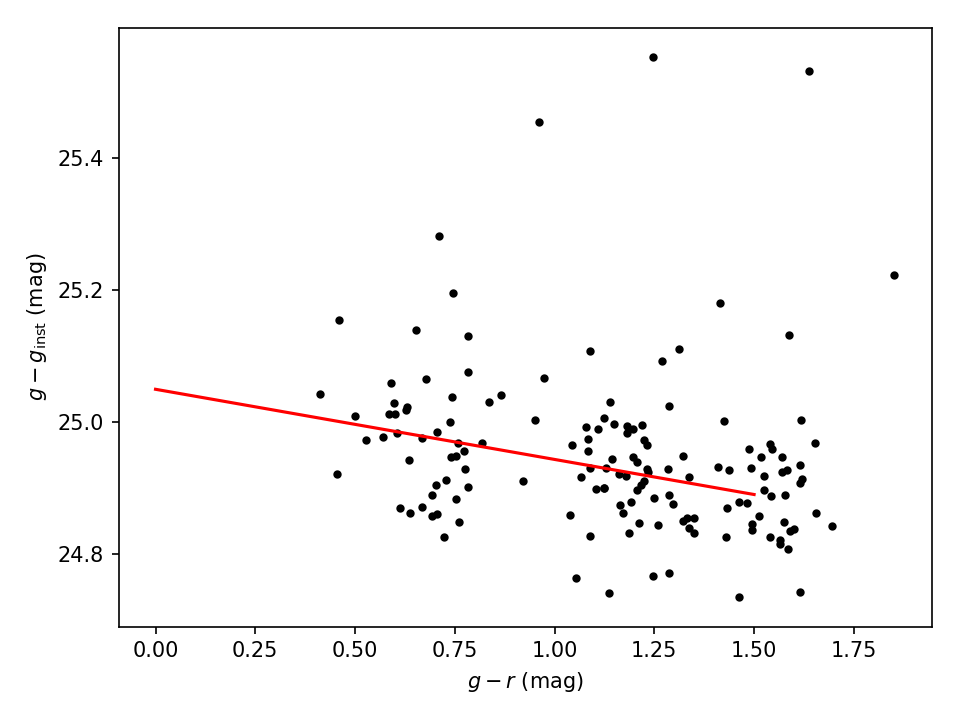
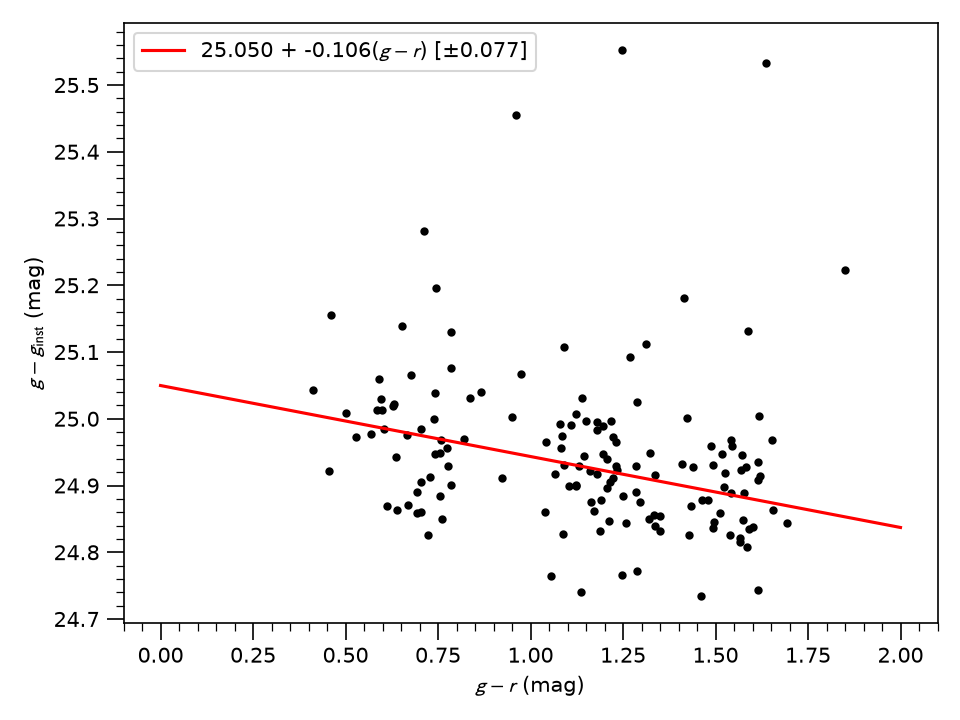
Update plots and show best fit numbers

diff --git a/examples/lco-skymapper-constant.py b/examples/lco-skymapper-constant.py
@@ -11,12 +11,12 @@ from astropy.table import Table
 
 import calviacat as cvc
 
-if os.path.exists("lco.fits"):
-    hdu = fits.open("lco.fits")
+if os.path.exists("lco-6913550.fits"):
+    hdu = fits.open("lco-6913550.fits")
 else:
     r = requests.get("https://archive-api.lco.global/frames/6913550/").json()
     hdu = fits.open(r["url"])
-    hdu.writeto("lco.fits")
+    hdu.writeto("lco-6913550.fits")
 
 im = hdu["sci"].data
 h = hdu["sci"].header
@@ -52,12 +52,12 @@ g_err = phot["FLUXERR"] / phot["FLUX"] * 1.0857
 zp_mean, zp_median, unc, g, gmi = skym.cal_constant(objids, g_inst, "g", gmi_lim=None)
 
 # plot results
-fig = plt.figure(1)
-fig.clear()
-ax = fig.gca()
+fig, ax = plt.subplots(num=1, clear=True)
 ax.scatter(g, g - g_inst, marker=".", color="k")
-ax.axhline(zp_mean)
-ax.axhline(zp_median)
-plt.setp(ax, xlabel="$g$ (mag)", ylabel=r"$g - g_{\rm inst}$ (mag)")
+ax.axhline(zp_mean, label=f"Mean: {zp_mean:.3f}")
+ax.axhline(zp_median, ls="--", label=f"Median: {zp_median:.3f}")
+ax.set(xlabel="$g$ (mag)", ylabel=r"$g - g_{\rm inst}$ (mag)")
+ax.minorticks_on()
+plt.legend()
 plt.tight_layout()
 plt.savefig("lco-skymapper-constant.png", dpi=150)

diff --git a/examples/lco-refcat2-color-corrected.py b/examples/lco-refcat2-color-corrected.py
@@ -11,12 +11,12 @@ from astropy.table import Table
 
 import calviacat as cvc
 
-if os.path.exists("lco.fits"):
-    hdu = fits.open("lco.fits")
+if os.path.exists("lco-6913550.fits"):
+    hdu = fits.open("lco-6913550.fits")
 else:
     r = requests.get("https://archive-api.lco.global/frames/6913550/").json()
     hdu = fits.open(r["url"])
-    hdu.writeto("lco.fits")
+    hdu.writeto("lco-6913550.fits")
 
 im = hdu["sci"].data
 h = hdu["sci"].header
@@ -50,12 +50,12 @@ g_err = phot["FLUXERR"] / phot["FLUX"] * 1.0857
 zp, C, unc, g, gmr, gmi = rc2.cal_color(objids, g_inst, "g", "g-r")
 
 # plot results
-fig = plt.figure(1)
-fig.clear()
-ax = fig.gca()
+fig, ax = plt.subplots(num=1, clear=True)
 ax.scatter(gmr, g - g_inst, marker=".", color="k")
-x = np.linspace(0, 1.5)
-ax.plot(x, C * x + zp, "r-")
-plt.setp(ax, xlabel="$g-r$ (mag)", ylabel=r"$g-g_{\rm inst}$ (mag)")
+x = np.linspace(0, 2)
+ax.plot(x, C * x + zp, "r-", label=f"{zp:.3f} + {C:.3f}($g-r$) [±{unc:.3f}]")
+ax.set(xlabel="$g-r$ (mag)", ylabel=r"$g-g_{\rm inst}$ (mag)")
+ax.legend()
+ax.minorticks_on()
 plt.tight_layout()
 plt.savefig("lco-refcat2-color-corrected.png", dpi=150)

diff --git a/examples/lco-ps1-color-corrected.py b/examples/lco-ps1-color-corrected.py
@@ -11,12 +11,12 @@ from astropy.table import Table
 
 import calviacat as cvc
 
-if os.path.exists("lco.fits"):
-    hdu = fits.open("lco.fits")
+if os.path.exists("lco-6143031.fits"):
+    hdu = fits.open("lco-6143031.fits")
 else:
     r = requests.get("https://archive-api.lco.global/frames/6143031/").json()
     hdu = fits.open(r["url"])
-    hdu.writeto("lco.fits")
+    hdu.writeto("lco-6143031.fits")
 
 im = hdu["sci"].data
 h = hdu["sci"].header
@@ -51,12 +51,12 @@ g_err = phot["FLUXERR"] / phot["FLUX"] * 1.0857
 zp, C, unc, g, gmr, gmi = ps1.cal_color(objids, g_inst, "g", "g-r")
 
 # plot results
-fig = plt.figure(1)
-fig.clear()
-ax = fig.gca()
+fig, ax = plt.subplots(num=1, clear=True)
 ax.scatter(gmr, g - g_inst, marker=".", color="k")
-x = np.linspace(0, 1.5)
-ax.plot(x, C * x + zp, "r-")
-plt.setp(ax, xlabel="$g-r$ (mag)", ylabel=r"$g-g_{\rm inst}$ (mag)")
+x = np.linspace(0, 2)
+ax.plot(x, C * x + zp, "r-", label=f"{zp:.3f} + {C:.3f}($g-r$) [±{unc:.3f}]")
+ax.minorticks_on()
+ax.set(xlabel="$g-r$ (mag)", ylabel=r"$g-g_{\rm inst}$ (mag)")
+ax.legend()
 plt.tight_layout()
 plt.savefig("lco-ps1-color-corrected.png", dpi=150)
